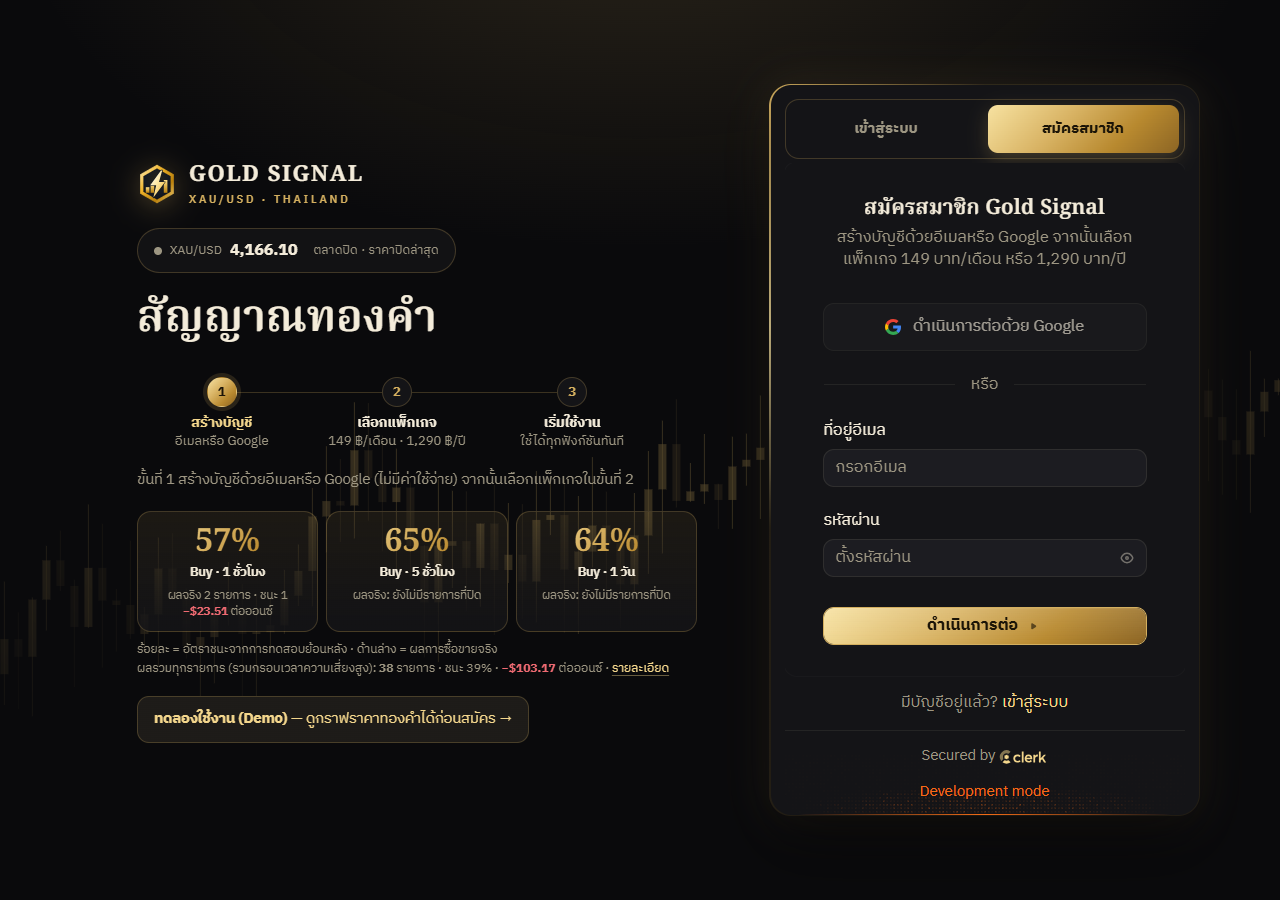
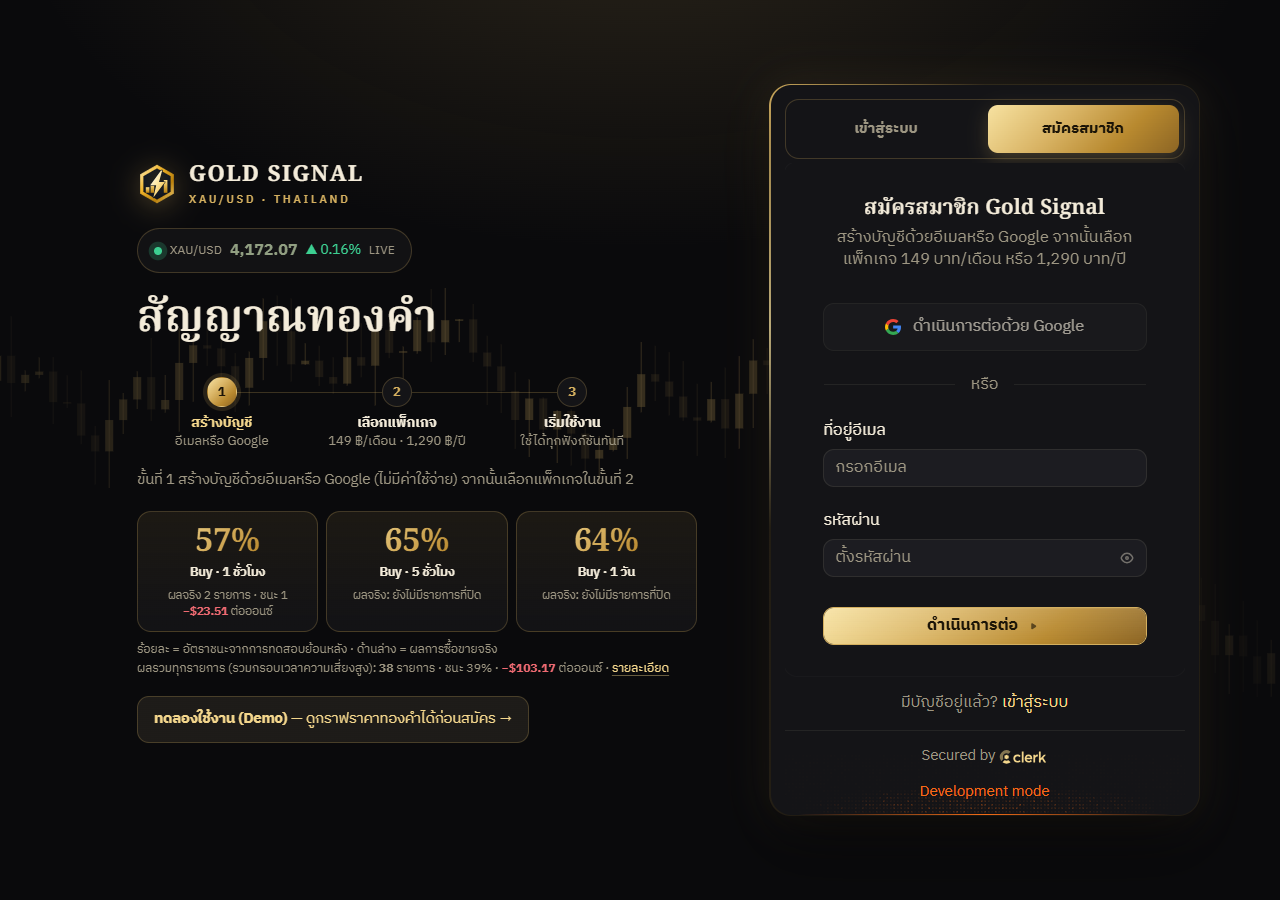
README: notifications row, sign-in screenshot; Skill.md: morning LINE back, phone sizing, chart redraw

diff --git a/Skill.md b/Skill.md
@@ -156,7 +156,7 @@ scripts/
   backtest.js / backtest-30m.js   ทดสอบย้อนหลัง (Binance PAXG ผ่าน data-api.binance.vision) · zframes-refresh.sh
 .github/workflows/
   price-alerts.yml   cron */15 จ.–ศ. (UTC) → check-loop.sh
-  morning-plan.yml   cron 00:05 + 01:05 UTC จ.–ศ. → market-gate.js (07:05 / 08:05 หน้าหนาว) · จันทร์สร้าง backtest ใหม่
+  morning-plan.yml   cron 00:05 + 01:05 UTC จ.–ศ. → market-gate.js (07:05 / 08:05 หน้าหนาว) · จันทร์สร้าง backtest ใหม่ · ส่ง LINE ภาพรวมเช้า (เปิดอีกครั้ง 19 ต.ค.; MORNING_LINE=off เพื่อปิด)
   weekly-summary.yml เสาร์ 00:30 UTC · new-members.yml ทุก 15 นาที (สมาชิกใหม่ + watchdog)
   monthly-research.yml วันที่ 2 ตี 3 ไทย · zframes-refresh.yml 23:00 UTC ทุกวัน
 dev-server.js   เซิร์ฟเวอร์ทดสอบในเครื่อง (npm start → http://localhost:3000, PORT ได้) — ไม่รัน middleware/api
@@ -313,6 +313,14 @@ gh workflow run weekly-summary.yml -R tanakrthum254614-max/gold-signal -f send=t
 # 📜 บันทึกการเปลี่ยนแปลง (ใหม่สุดอยู่บน)
 
 > จัดเรียงใหม่ 14 ต.ค. 2569: เนื้อหาเดิมครบทุกหัวข้อ แค่เรียงตามวันที่ (ใหม่ → เก่า) · งานใหม่ให้เพิ่มหัวข้อไว้บนสุดของส่วนนี้
+
+## 19 ต.ค. 2569 — 🔔 LINE ภาพรวมเช้ากลับมา · 📱 หน้าสมัครมือถือเล็กลง · ⚡ หน้าสัญญาณเบาลงตอนตลาดเปิด
+- ผู้ใช้ (จันทร์เช้า): "ทำไมไม่เห็นมีการแจ้งเตือนตอนเช้าแล้ว ปกติมี และอยากให้ปรับในโทรศัพท์ให้ดูเล็กลงอีกนิด มันดูใหญ่ไปตอนเปิดสมัครสมาชิก" → "ทำมาให้มีแจ้งเตือนด้วย ถ้าคนสมัครเข้ามาแล้วไม่มีแจ้งเตือนจะไม่เป็นไปตามที่เราตั้งเป้าไว้ ให้มีแจ้งเตือนทุกครั้งก็ต่อเมื่อมีสัญญาณในการเข้า เอาแบบเดิมกลับมาที่แจ้งเตือนในไลน์" → ถาม (มีตัวเลือกกรอบเสี่ยง) → เลือก **"แบบเดิม: 1 ชม. / 5 ชม. / 1 วัน"**
+- สาเหตุ: 17 ต.ค. ปิด LINE ภาพรวม 07:05 (รอบ "ลดส่วนไม่สำคัญ") + ตั้งแต่ 16 ต.ค. ยังไม่มีจุดเข้า 1 ชม./5 ชม./1 วัน → สมาชิกไม่ได้ LINE เลย · **บทเรียน: ห้ามปิดข้อความ LINE ที่ส่งประจำ — ผู้ใช้ถือว่า "มีแจ้งเตือน" เป็นเป้าหมายของบริการ**
+- scripts/morning-plan.js: ส่ง flex ภาพรวมเป็นค่าเริ่มต้น (`MORNING_LINE !== 'off'`), kind 'extra' (โควตาใกล้หมด → web push) · CHART_NOTIFY ยัง 1h,5h,1d · index.html แท็บบัญชี: "ทุกครั้งที่มีจุดเข้า · ภาพรวมทองคำทุกเช้า 07:05 น. (วันทำการ)" · ทดสอบ: scripts/test-notify-kinds.js ผ่าน · dry run morning-plan (สำเนาโปรเจกต์ + fetch_data.py) สร้าง flex 2,236 bytes · วันนี้ 07:05 ผ่านไปแล้ว (market-gate ส่งวันละครั้ง) → เริ่มส่งพรุ่งนี้
+- login.html `@media (max-width: 600px)`: โลโก้ 28px (ต้องใช้ `.pm .pm-brand` ชนะ premium.css) หัวข้อ 18px ขั้นตอน/แท็บ/ช่องผลงาน/FAQ/ป้ายเล็กลง · Clerk `PHONE` → fontSize 14px, ปุ่ม Google padding 9px, headerTitle 18px, card padding 18/16, **formFieldInput 16px** (iPhone ซูมถ้าเล็กกว่า 16) · มือถือ 390×664 แท็บสมัคร ปุ่มดำเนินการต่อ 639–672 (ในจอ)
+- main.js onStreamTick: `render()` เต็มทุกวินาทีเฉพาะ `location.hash === '#chart'` · แท็บอื่น `renderMarket(price)` + renderIntra + renderSignalHome · `UI.on('tab:chart')` เรียก `render()` ก่อน · ตรวจ gold-signal-tools/chartcatch.cjs (แท่งล่าสุด = ราคาสด หลังอยู่หน้าสัญญาณ 20 วิ) · ตัวรับราคาสดใช้เวลา ~1.1 → 0.5 วิ/10 วิ (CPU×4) · busy.cjs ตอนตลาดเปิดแกว่งมาก (37–58%) เทียบได้แค่คร่าว ๆ
+- เช็กวันจันทร์: ราคาสด welcome/login วิ่ง (9 ค่าใน 12 วิ, LIVE) · soak หน้าสมาชิก: ปกติ 17 ครั้ง/20 วิ, สตรีมหลุด/เงียบ/พับแท็บ ต่อเองได้ · loop สัญญาณ 00:36–01:05 UTC success ("no open signal") · commit f4d49a4
 
 ## 17 ต.ค. 2569 — ✍ LINE · โค้ช AI · ร่างการตลาด ภาษาทางการ
 - ผู้ใช้: "อยากปรับอะไรไหมเพิ่มไหมหรือลดอะไรไหม" → ผมเสนอ (ลด: ภาพโหลด 4 วิ → 2.5 วิ? · ฝุ่นทองธีมสว่างบนมือถือ · ค้าง: ข้อความ LINE/โค้ช AI) แนะนำข้อ 3 → "ทำมา" → ทำข้อ 3 เท่านั้น (ข้อ 1–2 เป็นสิ่งที่ผู้ใช้เลือกเองก่อนหน้า — ถามก่อนแตะ)

diff --git a/README.md b/README.md
@@ -47,7 +47,7 @@
 | **Risk Controls** | หยุดให้สัญญาณอัตโนมัติเมื่อขาดทุนต่อเนื่อง · งดเข้าซื้อขายช่วงประกาศข่าวเศรษฐกิจสำคัญ · เครื่องคำนวณขนาดการซื้อขาย |
 | **Real-time Data** | ราคาสดจากสตรีมข้อมูล (~1 วินาที) พร้อมแหล่งข้อมูลสำรองและการเชื่อมต่อใหม่อัตโนมัติ |
 | **Performance** | แอนิเมชันทำงานบน GPU · หยุดการดึงข้อมูลของส่วนที่ไม่ได้แสดงผลและเมื่อพับหน้าจอ · ภาระการประมวลผลขณะเปิดค้างไว้บนโทรศัพท์ลดลงประมาณ 80% · แคชข้อมูลกราฟรายกรอบเวลา เปลี่ยนกรอบเวลาได้ทันที |
-| **Notifications** | LINE Official Account และ Web Push · การแจ้งเตือนราคาที่กำหนดเอง · การแจ้งเตือนก่อนสมาชิกภาพหมดอายุ |
+| **Notifications** | LINE Official Account และ Web Push · แจ้งทุกจุดเข้าของกรอบเวลาหลัก · ภาพรวมราคาทองคำทุกเช้าวันทำการ · การแจ้งเตือนราคาที่กำหนดเอง · การแจ้งเตือนก่อนสมาชิกภาพหมดอายุ |
 | **AI Coach** | ผู้ช่วย AI วิเคราะห์สัญญาณทุกกรอบเวลาและบันทึกการซื้อขายของสมาชิกก่อนให้คำแนะนำ ตอบด้วยภาษาทางการ |
 | **US Equities** | แดชบอร์ด Nasdaq 100, S&P 500, หุ้นปันผล และพอร์ตการลงทุนของนักลงทุนสถาบัน 28 รายจากรายงาน 13F |
 | **Onboarding** | หน้าสมัครแสดงราคาทองคำแบบเรียลไทม์ สรุปผลทดสอบและผลจริง (รวมทุกรายการ) ขั้นตอน 3 ขั้น และคำถามที่พบบ่อย 6 หัวข้อในรูปแบบการ์ด · หน้าต่างแนะนำการใช้งานหลังชำระเงิน · โหมดใช้งานแบบง่าย / แบบเทรดเดอร์ · ทัวร์แนะนำครั้งแรก · คำอธิบายศัพท์ |
